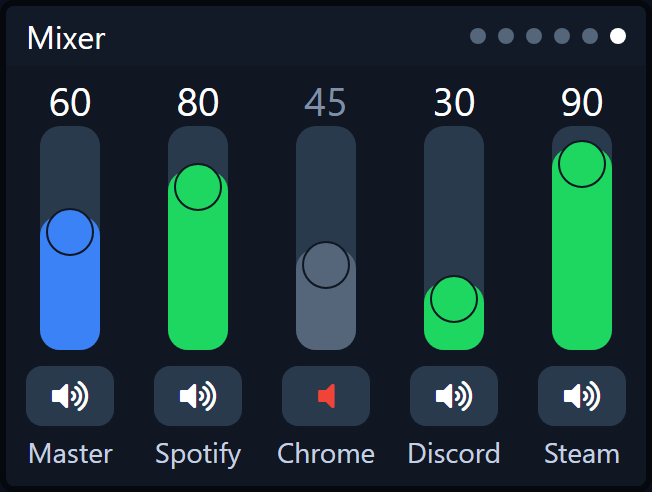
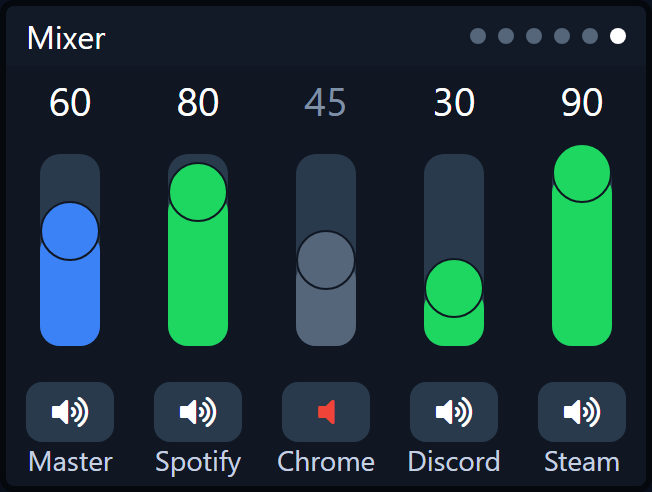
Mixer: the fader knob no longer covers the number at 100 %; clock: seconds are part of the time (HH:MM:SS)
The knob is now as wide as the fader (30 px) and the track starts lower, leaving room for the number above and the mute
button below. With seconds on the time is HH:MM:SS in a slightly smaller font; AM / PM sits on the date's row. The
editor previews and the README pictures follow.

diff --git a/companion/streamdeck_companion/web/app.js b/companion/streamdeck_companion/web/app.js
@@ -545,12 +545,12 @@ function mockMixer(o) {
     const accent = muted ? '#55657A' : color;
     return boxAt(x0 + i * 64, 0, 56, 210, {},
       labelAt(0, 4, 56, 20, muted ? '#7F8FA6' : '#fff', String(vol), { textAlign: 'center' }),
-      boxAt(13, 30, 30, 112, { background: '#2A3A4D', borderRadius: 10 * S + 'px' },
-        boxAt(0, 112 * (1 - vol / 100), 30, 112 * vol / 100, { background: accent, borderRadius: 10 * S + 'px' }),
-        boxAt(3, Math.min(112 - 24, Math.max(0, 112 * (1 - vol / 100) - 4)), 24, 24, { background: accent, borderRadius: '50%', border: '2px solid #101722', boxSizing: 'border-box' })),
-      boxAt(6, 150, 44, 30, { background: '#2A3A4D', borderRadius: 8 * S + 'px', display: 'flex', alignItems: 'center', justifyContent: 'center', color: muted ? '#F04438' : '#fff', fontSize: 16 * S + 'px' },
+      boxAt(13, 44, 30, 96, { background: '#2A3A4D', borderRadius: 10 * S + 'px' },
+        boxAt(0, 96 * (1 - vol / 100), 30, 96 * vol / 100, { background: accent, borderRadius: 10 * S + 'px' }),
+        boxAt(0, 96 * (1 - vol / 100) - 15, 30, 30, { background: accent, borderRadius: '50%', border: '2px solid #101722', boxSizing: 'border-box' })),  // the knob is a circle as wide as the fader
+      boxAt(6, 158, 44, 30, { background: '#2A3A4D', borderRadius: 8 * S + 'px', display: 'flex', alignItems: 'center', justifyContent: 'center', color: muted ? '#F04438' : '#fff', fontSize: 16 * S + 'px' },
         h('span', { class: 'fa' }, glyph(muted ? 'mute' : 'volume_up'))),
-      labelAt(0, 184, 56, 14, '#C5D1E3', name, { textAlign: 'center', textOverflow: 'ellipsis' }));
+      labelAt(0, 188, 56, 14, '#C5D1E3', name, { textAlign: 'center', textOverflow: 'ellipsis' }));
   }));
 }
 
@@ -560,10 +560,10 @@ function mockClock(o) {
   const weather = o.weather && o.place;
   const x0 = weather ? 16 : 62;
   const kids = [
-    labelAt(x0, 4 + yOff, 142, 48, '#fff', o.hour12 ? '2:05' : '14:05', { fontWeight: 600 }),
-    o.hour12 ? labelAt(x0 + 144, 8 + yOff, 40, 18, '#7F8FA6', 'PM') : null,
-    o.seconds ? labelAt(x0 + 144, 28 + yOff, 40, 24, '#7F8FA6', '30') : null,
-    labelAt(x0, 62 + yOff, 190, 18, '#C5D1E3', 'Thu 19 Nov'),
+    // HH:MM, or HH:MM:SS in a slightly smaller font; AM / PM sits on the date's row
+    labelAt(x0, (o.seconds ? 10 : 4) + yOff, 190, o.seconds ? 40 : 48, '#fff', (o.hour12 ? '2:05' : '14:05') + (o.seconds ? ':30' : ''), { fontWeight: 600 }),
+    labelAt(x0, 62 + yOff, 126, 18, '#C5D1E3', 'Thu 19 Nov'),
+    o.hour12 ? labelAt(x0 + 136, 62 + yOff, 50, 18, '#7F8FA6', 'PM', { textAlign: 'right' }) : null,
   ];
   if (weather) {
     const unit = o.units === 'f' ? 'F' : 'C';

diff --git a/src/clockscreen.cpp b/src/clockscreen.cpp
@@ -64,10 +64,10 @@ void tickTimer() {
 
 ClockOptions opts;
 bool built = false;
-lv_obj_t *timeLbl, *secLbl, *ampmLbl, *dateLbl, *tempLbl, *condLbl, *rangeLbl, *placeLbl, *timerLbl, *startBtn, *startLbl, *resetBtn;
+lv_obj_t *timeLbl, *ampmLbl, *dateLbl, *tempLbl, *condLbl, *rangeLbl, *placeLbl, *timerLbl, *startBtn, *startLbl, *resetBtn;
 lv_obj_t* presetBtn[4];
 WeatherInfo weather;
-char cTime[12], cSec[6], cAmpm[4], cDate[20], cTemp[12], cCond[24], cRange[20], cPlace[28], cTimer[8], cStart[8];
+char cTime[12], cAmpm[4], cDate[20], cTemp[12], cCond[24], cRange[20], cPlace[28], cTimer[8], cStart[8];
 uint32_t startColor = 0;
 
 void setText(lv_obj_t* label, char* cache, size_t size, const char* text) {
@@ -89,16 +89,11 @@ void refresh() {
     const time_t t = static_cast<time_t>(nowEpoch() + static_cast<int64_t>(offsetMin) * 60);
     struct tm tmv;
     gmtime_r(&t, &tmv);
-    if (opts.hour12) {
-      const int h = tmv.tm_hour % 12 == 0 ? 12 : tmv.tm_hour % 12;
-      snprintf(buf, sizeof buf, "%d:%02d", h, tmv.tm_min);
-      setText(ampmLbl, cAmpm, sizeof cAmpm, tmv.tm_hour < 12 ? "AM" : "PM");
-    } else {
-      snprintf(buf, sizeof buf, "%02d:%02d", tmv.tm_hour, tmv.tm_min);
-    }
+    const int hour = opts.hour12 ? (tmv.tm_hour % 12 == 0 ? 12 : tmv.tm_hour % 12) : tmv.tm_hour;
+    if (opts.seconds) snprintf(buf, sizeof buf, opts.hour12 ? "%d:%02d:%02d" : "%02d:%02d:%02d", hour, tmv.tm_min, tmv.tm_sec);
+    else snprintf(buf, sizeof buf, opts.hour12 ? "%d:%02d" : "%02d:%02d", hour, tmv.tm_min);
     setText(timeLbl, cTime, sizeof cTime, buf);
-    snprintf(buf, sizeof buf, "%02d", tmv.tm_sec);
-    setText(secLbl, cSec, sizeof cSec, buf);
+    if (opts.hour12) setText(ampmLbl, cAmpm, sizeof cAmpm, tmv.tm_hour < 12 ? "AM" : "PM");
     snprintf(buf, sizeof buf, "%s %d %s", kDays[tmv.tm_wday % 7], tmv.tm_mday, kMonths[tmv.tm_mon % 12]);
     setText(dateLbl, cDate, sizeof cDate, buf);
   } else {
@@ -220,9 +215,9 @@ void clockInit() { lv_timer_create(tick, 200, nullptr); }
 
 void clockForget() {
   built = false;
-  timeLbl = secLbl = ampmLbl = dateLbl = tempLbl = condLbl = rangeLbl = placeLbl = timerLbl = startBtn = startLbl = resetBtn = nullptr;
+  timeLbl = ampmLbl = dateLbl = tempLbl = condLbl = rangeLbl = placeLbl = timerLbl = startBtn = startLbl = resetBtn = nullptr;
   for (lv_obj_t*& b : presetBtn) b = nullptr;
-  cTime[0] = cSec[0] = cAmpm[0] = cDate[0] = cTemp[0] = cCond[0] = cRange[0] = cPlace[0] = cTimer[0] = cStart[0] = 0;
+  cTime[0] = cAmpm[0] = cDate[0] = cTemp[0] = cCond[0] = cRange[0] = cPlace[0] = cTimer[0] = cStart[0] = 0;
   startColor = 0;
 }
 
@@ -239,12 +234,11 @@ void clockBuild(lv_obj_t* tile, const ClockOptions& options) {
   const int yOff = opts.timer ? 0 : 36;       // without the timer the clock sits lower, nearer the middle
   const int x0 = opts.weather ? 16 : 62;      // without the weather the clock is centered
 
-  timeLbl = makeLabel(root, &lv_font_montserrat_48, 0xFFFFFF, x0, 4 + yOff, 142);
-  ampmLbl = makeLabel(root, &lv_font_montserrat_18, kMuted, x0 + 144, 8 + yOff, 40);
-  secLbl = makeLabel(root, &lv_font_montserrat_24, kMuted, x0 + 144, 28 + yOff, 40);
-  dateLbl = makeLabel(root, &lv_font_montserrat_18, kSoft, x0, 62 + yOff, 190);
+  // HH:MM, or HH:MM:SS in a slightly smaller font so it still fits next to the weather. AM / PM sits on the date's row.
+  timeLbl = makeLabel(root, opts.seconds ? &lv_font_montserrat_40 : &lv_font_montserrat_48, 0xFFFFFF, x0, (opts.seconds ? 10 : 4) + yOff, 190);
+  dateLbl = makeLabel(root, &lv_font_montserrat_18, kSoft, x0, 62 + yOff, 126);
+  ampmLbl = makeLabel(root, &lv_font_montserrat_18, kMuted, x0 + 136, 62 + yOff, 50, LV_TEXT_ALIGN_RIGHT);
   if (!opts.hour12) lv_obj_add_flag(ampmLbl, LV_OBJ_FLAG_HIDDEN);
-  if (!opts.seconds) lv_obj_add_flag(secLbl, LV_OBJ_FLAG_HIDDEN);
 
   if (opts.weather) {
     tempLbl = makeLabel(root, &lv_font_montserrat_32, 0xFFFFFF, 206, 2 + yOff, 108);

diff --git a/src/mixer.cpp b/src/mixer.cpp
@@ -10,7 +10,9 @@ constexpr uint32_t kBg = 0x101722, kTrack = 0x2A3A4D, kBlue = 0x3B82F6, kGreen =
 constexpr int kCols = 5;                  // the master fader and up to four programs
 constexpr int kColW = 56, kColGap = 8;
 constexpr int kTileW = 320, kTileH = 210;  // the area below the fixed top bar
-constexpr int kSliderW = 30, kSliderTop = 30, kSliderH = 112;
+// The knob is a circle as wide as the fader (30 px): at 100 % it sticks out 15 px above the track and at 0 % 15 px below it,
+// so the number above and the mute button below keep that much room.
+constexpr int kSliderW = 30, kSliderTop = 44, kSliderH = 96;
 constexpr uint32_t kGuardMs = 700;        // after a touch the PC's value is ignored for a moment (it is still catching up)
 constexpr uint32_t kSendEveryMs = 80;
 
@@ -148,13 +150,13 @@ void buildCol(lv_obj_t* root, int index) {
   lv_obj_set_style_radius(c.slider, 10, LV_PART_INDICATOR);
   lv_obj_set_style_bg_opa(c.slider, LV_OPA_COVER, LV_PART_INDICATOR);
   lv_obj_set_style_bg_opa(c.slider, LV_OPA_COVER, LV_PART_KNOB);
-  lv_obj_set_style_pad_all(c.slider, 3, LV_PART_KNOB);
+  lv_obj_set_style_pad_all(c.slider, 0, LV_PART_KNOB);  // knob = the fader's width, no bigger
   lv_obj_add_event_cb(c.slider, onSlider, LV_EVENT_ALL, reinterpret_cast<void*>(static_cast<intptr_t>(index)));
 
   c.mute = lv_btn_create(c.box);
   lv_obj_remove_style_all(c.mute);
   lv_obj_set_size(c.mute, 44, 30);
-  lv_obj_set_pos(c.mute, (kColW - 44) / 2, kSliderTop + kSliderH + 8);
+  lv_obj_set_pos(c.mute, (kColW - 44) / 2, kSliderTop + kSliderH + 18);
   lv_obj_set_style_bg_opa(c.mute, LV_OPA_COVER, 0);
   lv_obj_set_style_bg_color(c.mute, lv_color_hex(kTrack), 0);
   lv_obj_set_style_bg_color(c.mute, lv_color_hex(kGrey), LV_STATE_PRESSED);
@@ -170,7 +172,7 @@ void buildCol(lv_obj_t* root, int index) {
   lv_obj_set_width(c.name, kColW);
   lv_obj_set_style_text_align(c.name, LV_TEXT_ALIGN_CENTER, 0);
   lv_label_set_long_mode(c.name, LV_LABEL_LONG_DOT);
-  lv_obj_set_pos(c.name, 0, kTileH - 26);
+  lv_obj_set_pos(c.name, 0, kTileH - 22);
   lv_label_set_text(c.name, "");
   paint(c, index);
 }
